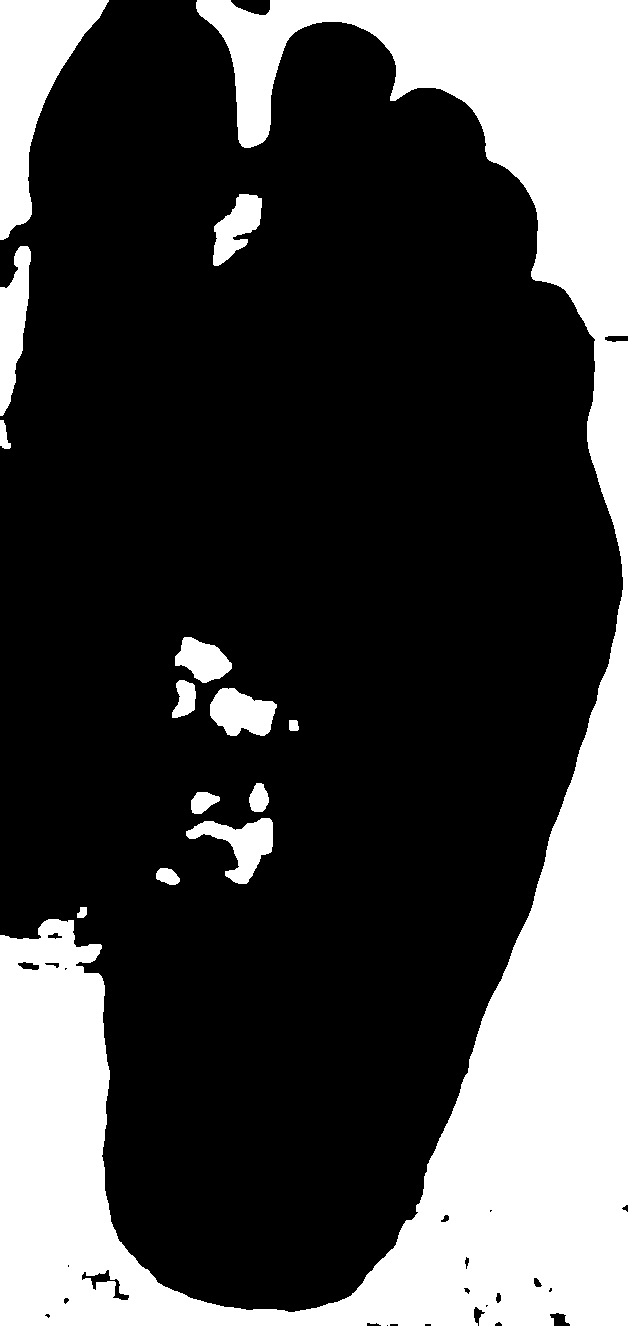
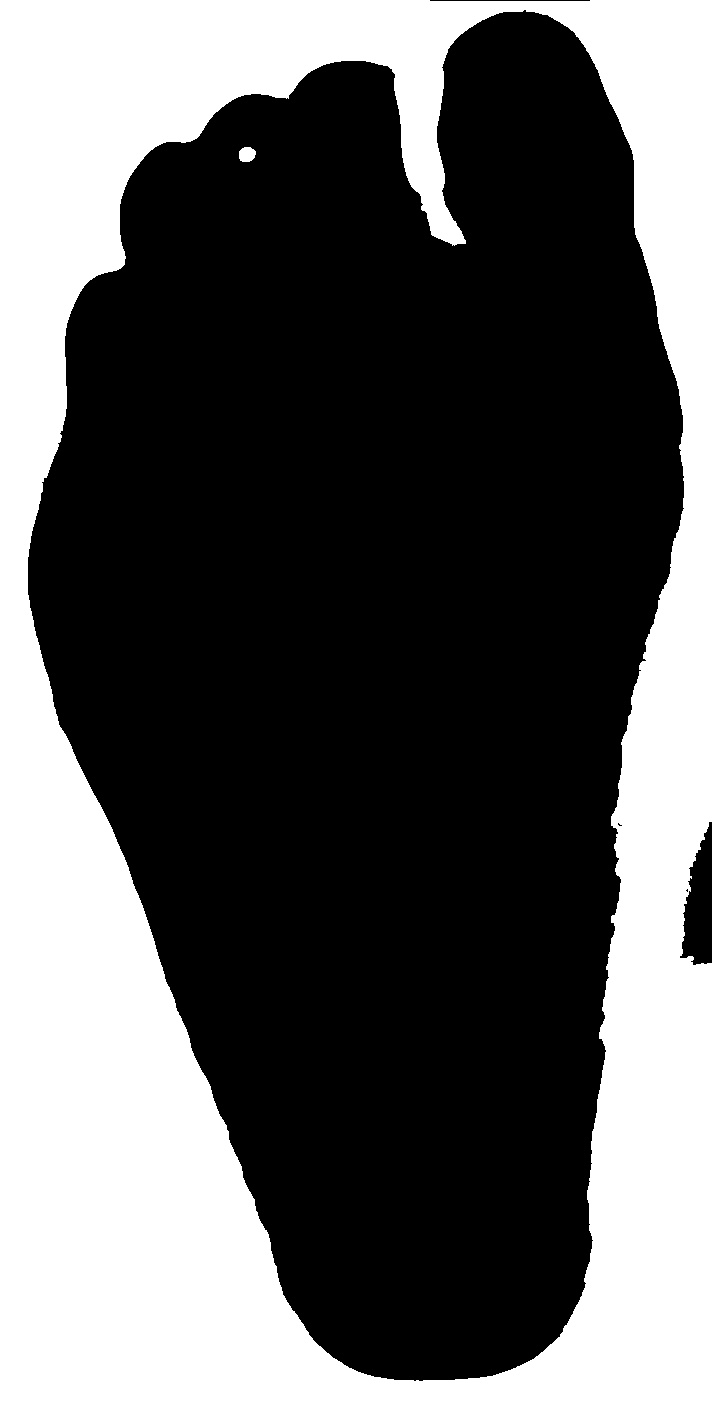
adddd

diff --git a/src/BgRemoval.java b/src/BgRemoval.java
@@ -15,22 +15,34 @@ public class BgRemoval {
     public Mat doBackgroundRemoval(Mat source)
     {
 
+        double alpha = -1;
+        double beta = 150;
         // init
         Mat hsvImg = new Mat();
         List<Mat> hsvPlanes = new ArrayList<>();
         Mat thresholdImg = new Mat();
-        //add more sharpness
 
+        //brightness
+        Mat blur = new Mat();
+        Imgproc.GaussianBlur(source, blur, new Size(27, 27), 10, 10, Core.BORDER_DEFAULT);
+        Mat bright = new Mat(blur.rows(),blur.cols(), blur.type());
+        Mat bctest = new Mat();
+        source.convertTo(bright, 0, alpha, beta);
+        Imgcodecs.imwrite("./brightness.jpg", bright);
+        Imgproc.Canny(bright, bctest, 20, 100, 3, false);
+        bctest.convertTo(bright, CvType.CV_8UC3);
+        Imgcodecs.imwrite("./bctest.jpg", bctest);
 
+        //HSV Image
         // threshold the image with the histogram average value
         hsvImg.create(source.size(), CvType.CV_8U);
         Imgproc.cvtColor(source, hsvImg, Imgproc.COLOR_BGR2HSV);
         // enhance
-        Imgproc.GaussianBlur( hsvImg, hsvImg, new Size(15, 15), 10, 10, Core.BORDER_DEFAULT );
+        Imgproc.GaussianBlur( hsvImg, hsvImg, new Size(27, 27), 10, 10, Core.BORDER_DEFAULT );
         Core.split(hsvImg, hsvPlanes);
         Imgcodecs.imwrite("./test.jpg", hsvImg);
 
-        double threshValue = this.getHistAverage(hsvImg, hsvPlanes.get(0));
+        double threshValue = this.getHistAverage(bright, hsvPlanes.get(0));
         // a new binary threshold
         Imgproc.threshold(hsvPlanes.get(0), thresholdImg, threshValue, 255, Imgproc.THRESH_BINARY_INV);
         Imgproc.blur(thresholdImg, thresholdImg, new Size(5, 5));
@@ -51,7 +63,7 @@ public class BgRemoval {
         Imgproc.cvtColor(foreground, source, Imgproc.COLOR_BGR2GRAY);
         Imgproc.threshold(source, source, threshValue, 255.0, Imgproc.THRESH_BINARY_INV);
 //        String file = "./asd.jpg";
-        double kernelSize = source.width() / 100;
+        double kernelSize = source.width() / 220;
         Mat kernel = new Mat(new Size(kernelSize, kernelSize), CvType.CV_8UC1);
         Imgproc.morphologyEx(source, source, Imgproc.MORPH_OPEN, kernel);
 //        imageCodecs.imwrite(file, image);
@@ -61,7 +73,7 @@ public class BgRemoval {
     }
 
     //Histogram
-    private double getHistAverage(Mat hsvImg, Mat hueValues)
+    private double getHistAverage(Mat bright, Mat hueValues)
     {
         // init
         double average = 0.0;
@@ -79,53 +91,14 @@ public class BgRemoval {
             average += (hist_hue.get(h, 0)[0] * h);
         }
 
-        return average = average / hsvImg.size().height / hsvImg.size().width;
+        return average = average / bright.size().height / bright.size().width;
     }
+
 
     public Mat detectEdge(Mat source) {
         Mat edge = new Mat();
         Imgproc.Canny(source, edge, 20, 100, 3, false);
         Imgcodecs.imwrite("canny.jpg", edge);
-        // Creating the empty destination matrix
-//        Mat gray = new Mat();
-//        Mat canny = new Mat();
-//        Mat sobel = new Mat();
-//        Mat scharr = new Mat();
-//        Mat laplacian = new Mat();
-//        Mat wide_can = new Mat();
-//        Mat wide_sol = new Mat();
-//        Mat wide_sch = new Mat();
-//        Mat wide_lap = new Mat();
-
-
-
-        // Converting the image to gray scale and
-        // saving it in the dst matrix
-//        Imgproc.cvtColor(source, gray, Imgproc.COLOR_RGB2GRAY);
-//
-//        //Canny EdgeDetection
-//        Imgproc.Canny(gray, wide_can, 20, 100, 3, false);
-//        wide_can.convertTo(canny, CvType.CV_8UC3);
-//
-//        //Sobel EdgeDetection (Applying sobel derivative with values x:0 y:1)
-//        Imgproc.Sobel(gray, wide_sol, -1, 0, 1, 3);
-//        wide_sol.convertTo(sobel, CvType.CV_8UC3);
-//
-//        //Scharr EdgeDetection (Applying scharr derivative with values x:1 y:0)
-//        Imgproc.Scharr(gray, wide_sch, Imgproc.CV_SCHARR, 1, 0);
-//        wide_sch.convertTo(scharr, CvType.CV_8UC3);
-//
-//        //Laplacian
-//        Imgproc.Laplacian(gray, wide_lap, CvType.CV_16S, 3, 3, 0, Core.BORDER_DEFAULT);
-//        wide_lap.convertTo(laplacian, CvType.CV_8UC3);
-
-
-        // Writing the image
-//        Imgcodecs.imwrite("./gray.jpg", gray);
-//        Imgcodecs.imwrite("./CannyEdge.jpg",canny);
-//        Imgcodecs.imwrite("./SobelEdge.jpg", sobel);
-//        Imgcodecs.imwrite("./ScharrEdge.jpg", scharr);
-//        Imgcodecs.imwrite("./LaplacianEdge.jpg", laplacian);
         return edge;
     }
 

diff --git a/src/main.java b/src/main.java
@@ -15,7 +15,7 @@ class Test {
 
         //Loading the OpenCV core library
         System.loadLibrary(Core.NATIVE_LIBRARY_NAME);
-        String input = "./left_sole.jpg";
+        String input = "./no4.jpg";
 
         // To Read the image
         Mat source = Imgcodecs.imread(input);
@@ -24,10 +24,17 @@ class Test {
 //        Imgproc.GaussianBlur( source, source, new Size(5, 5), 0, 0, Core.BORDER_DEFAULT );
 
 
-        //Call bg removal class
+//        //Call bg removal class
         BgRemoval b = new BgRemoval();
         b.doBackgroundRemoval(source);
         b.detectEdge(source);
+
+//        Mat test = new Mat();
+//        Mat wide_test = new Mat(source.rows(),source.cols(),source.type());
+//        Imgproc.threshold(source, test, 200,255, Imgproc.THRESH_TOZERO_INV);
+//        wide_test.convertTo(test, CvType.CV_8UC3);
+//        Imgcodecs.imwrite("./s.jpg",source);
+//        Imgcodecs.imwrite("./threshold.jpg",test);
 
     }
 
